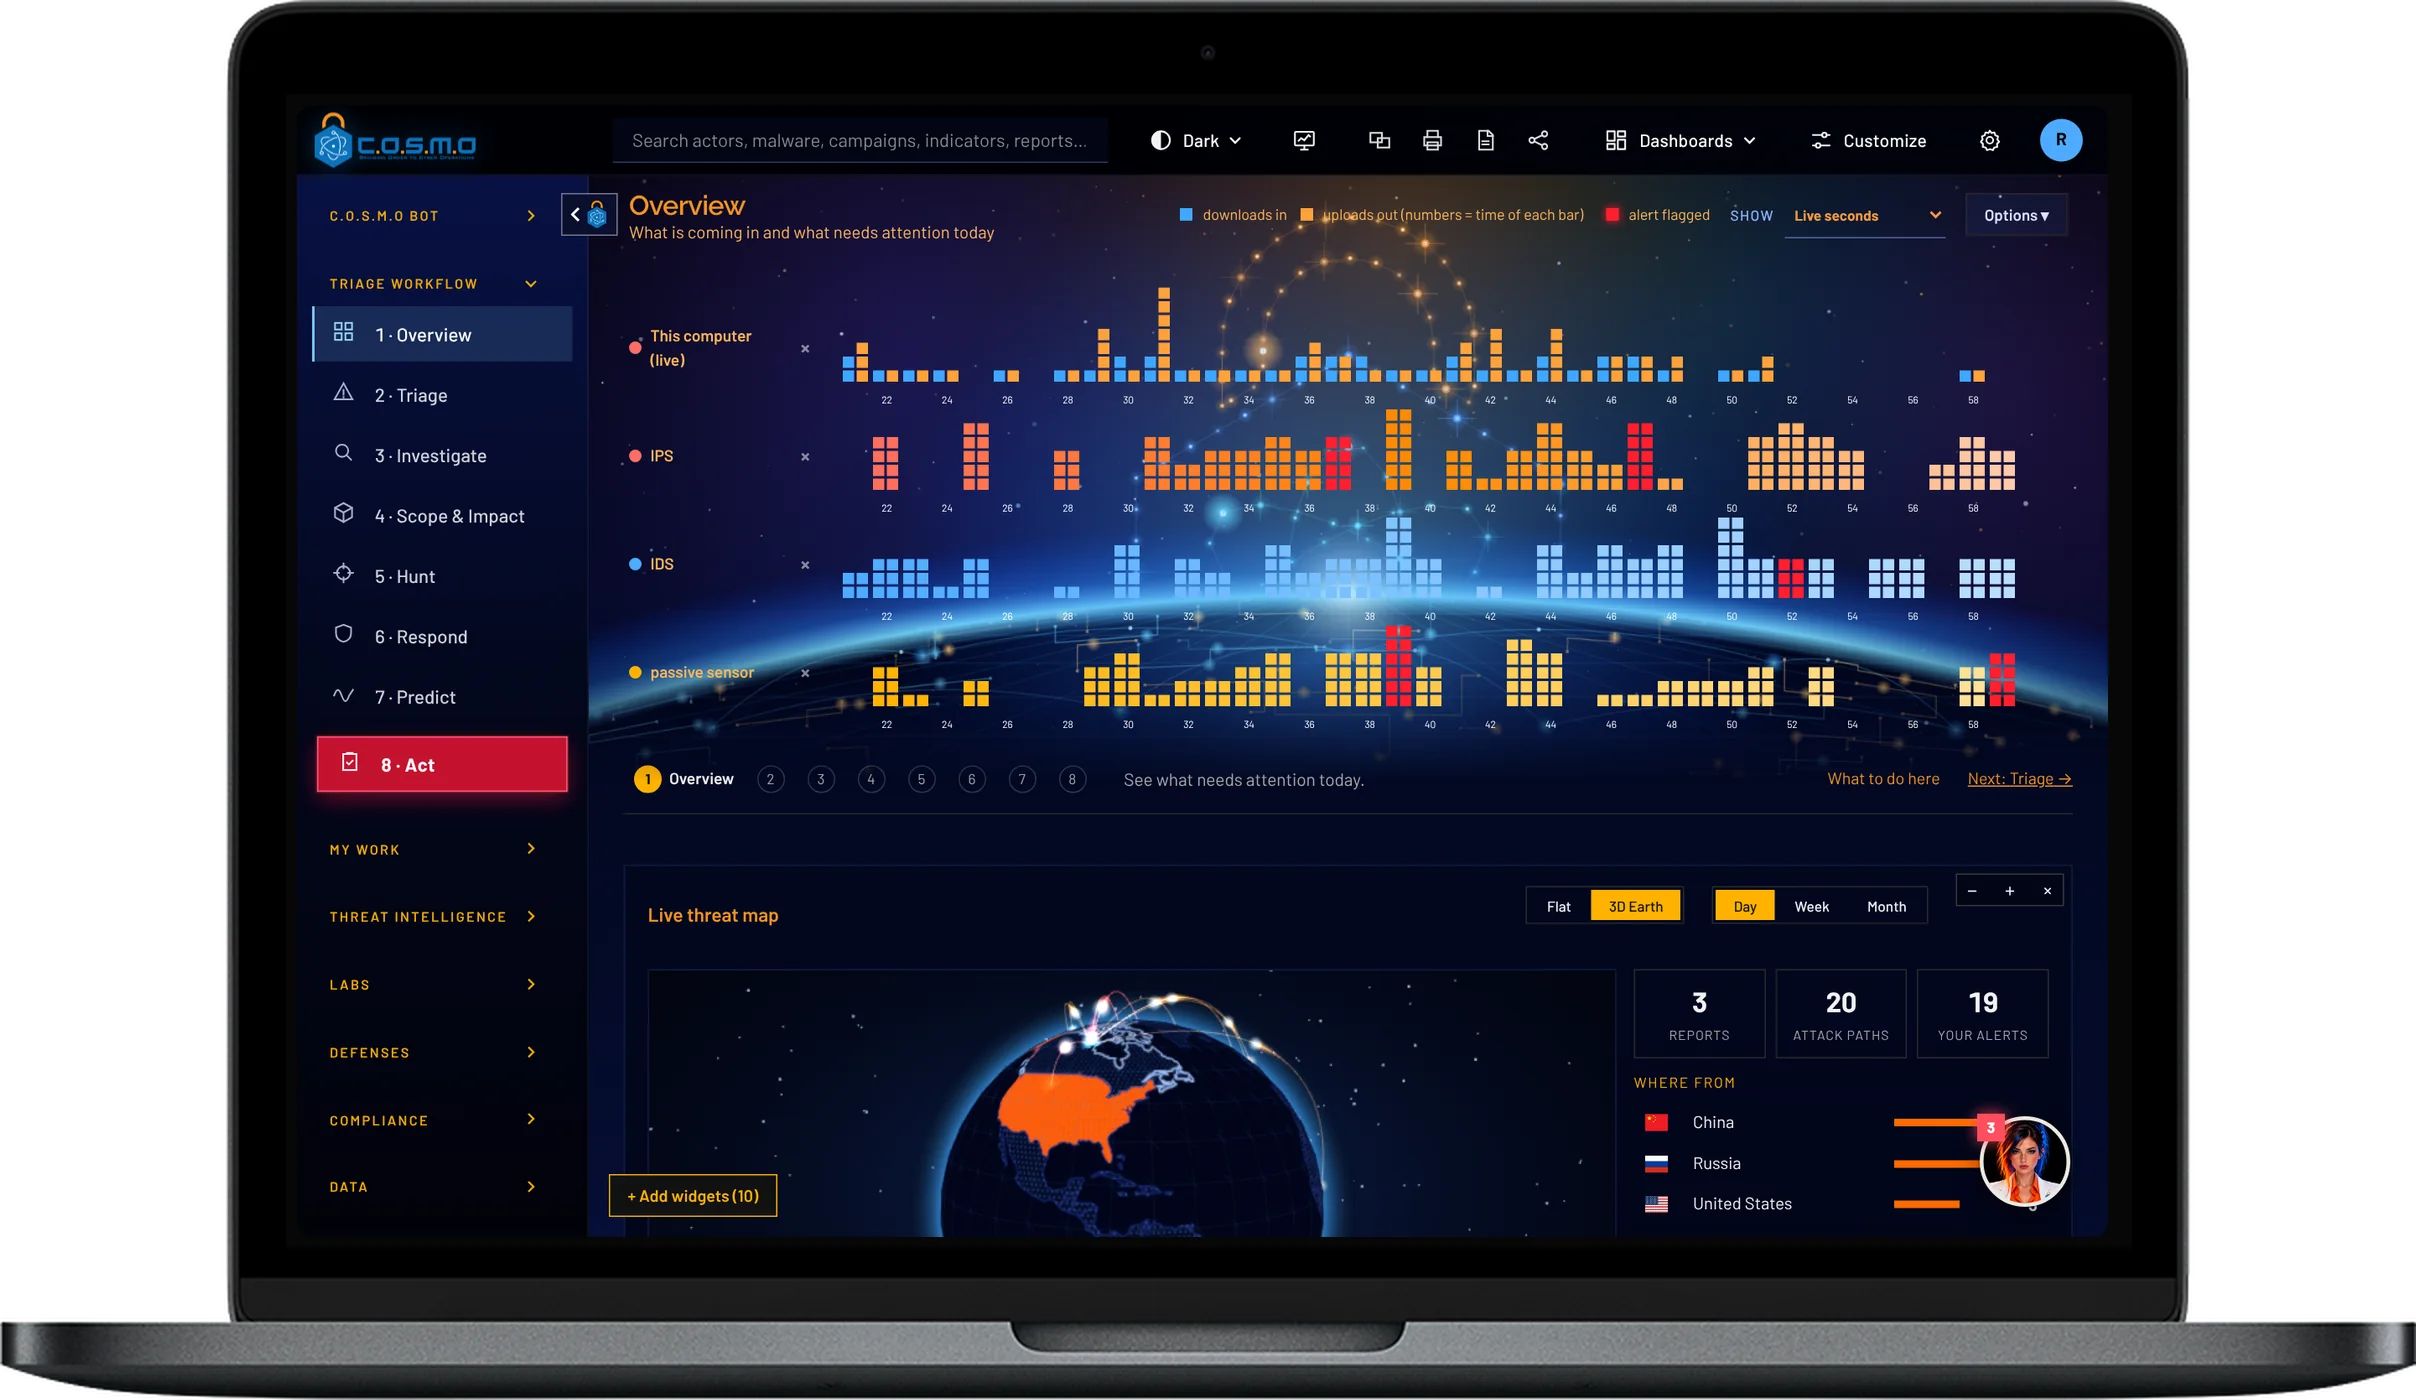
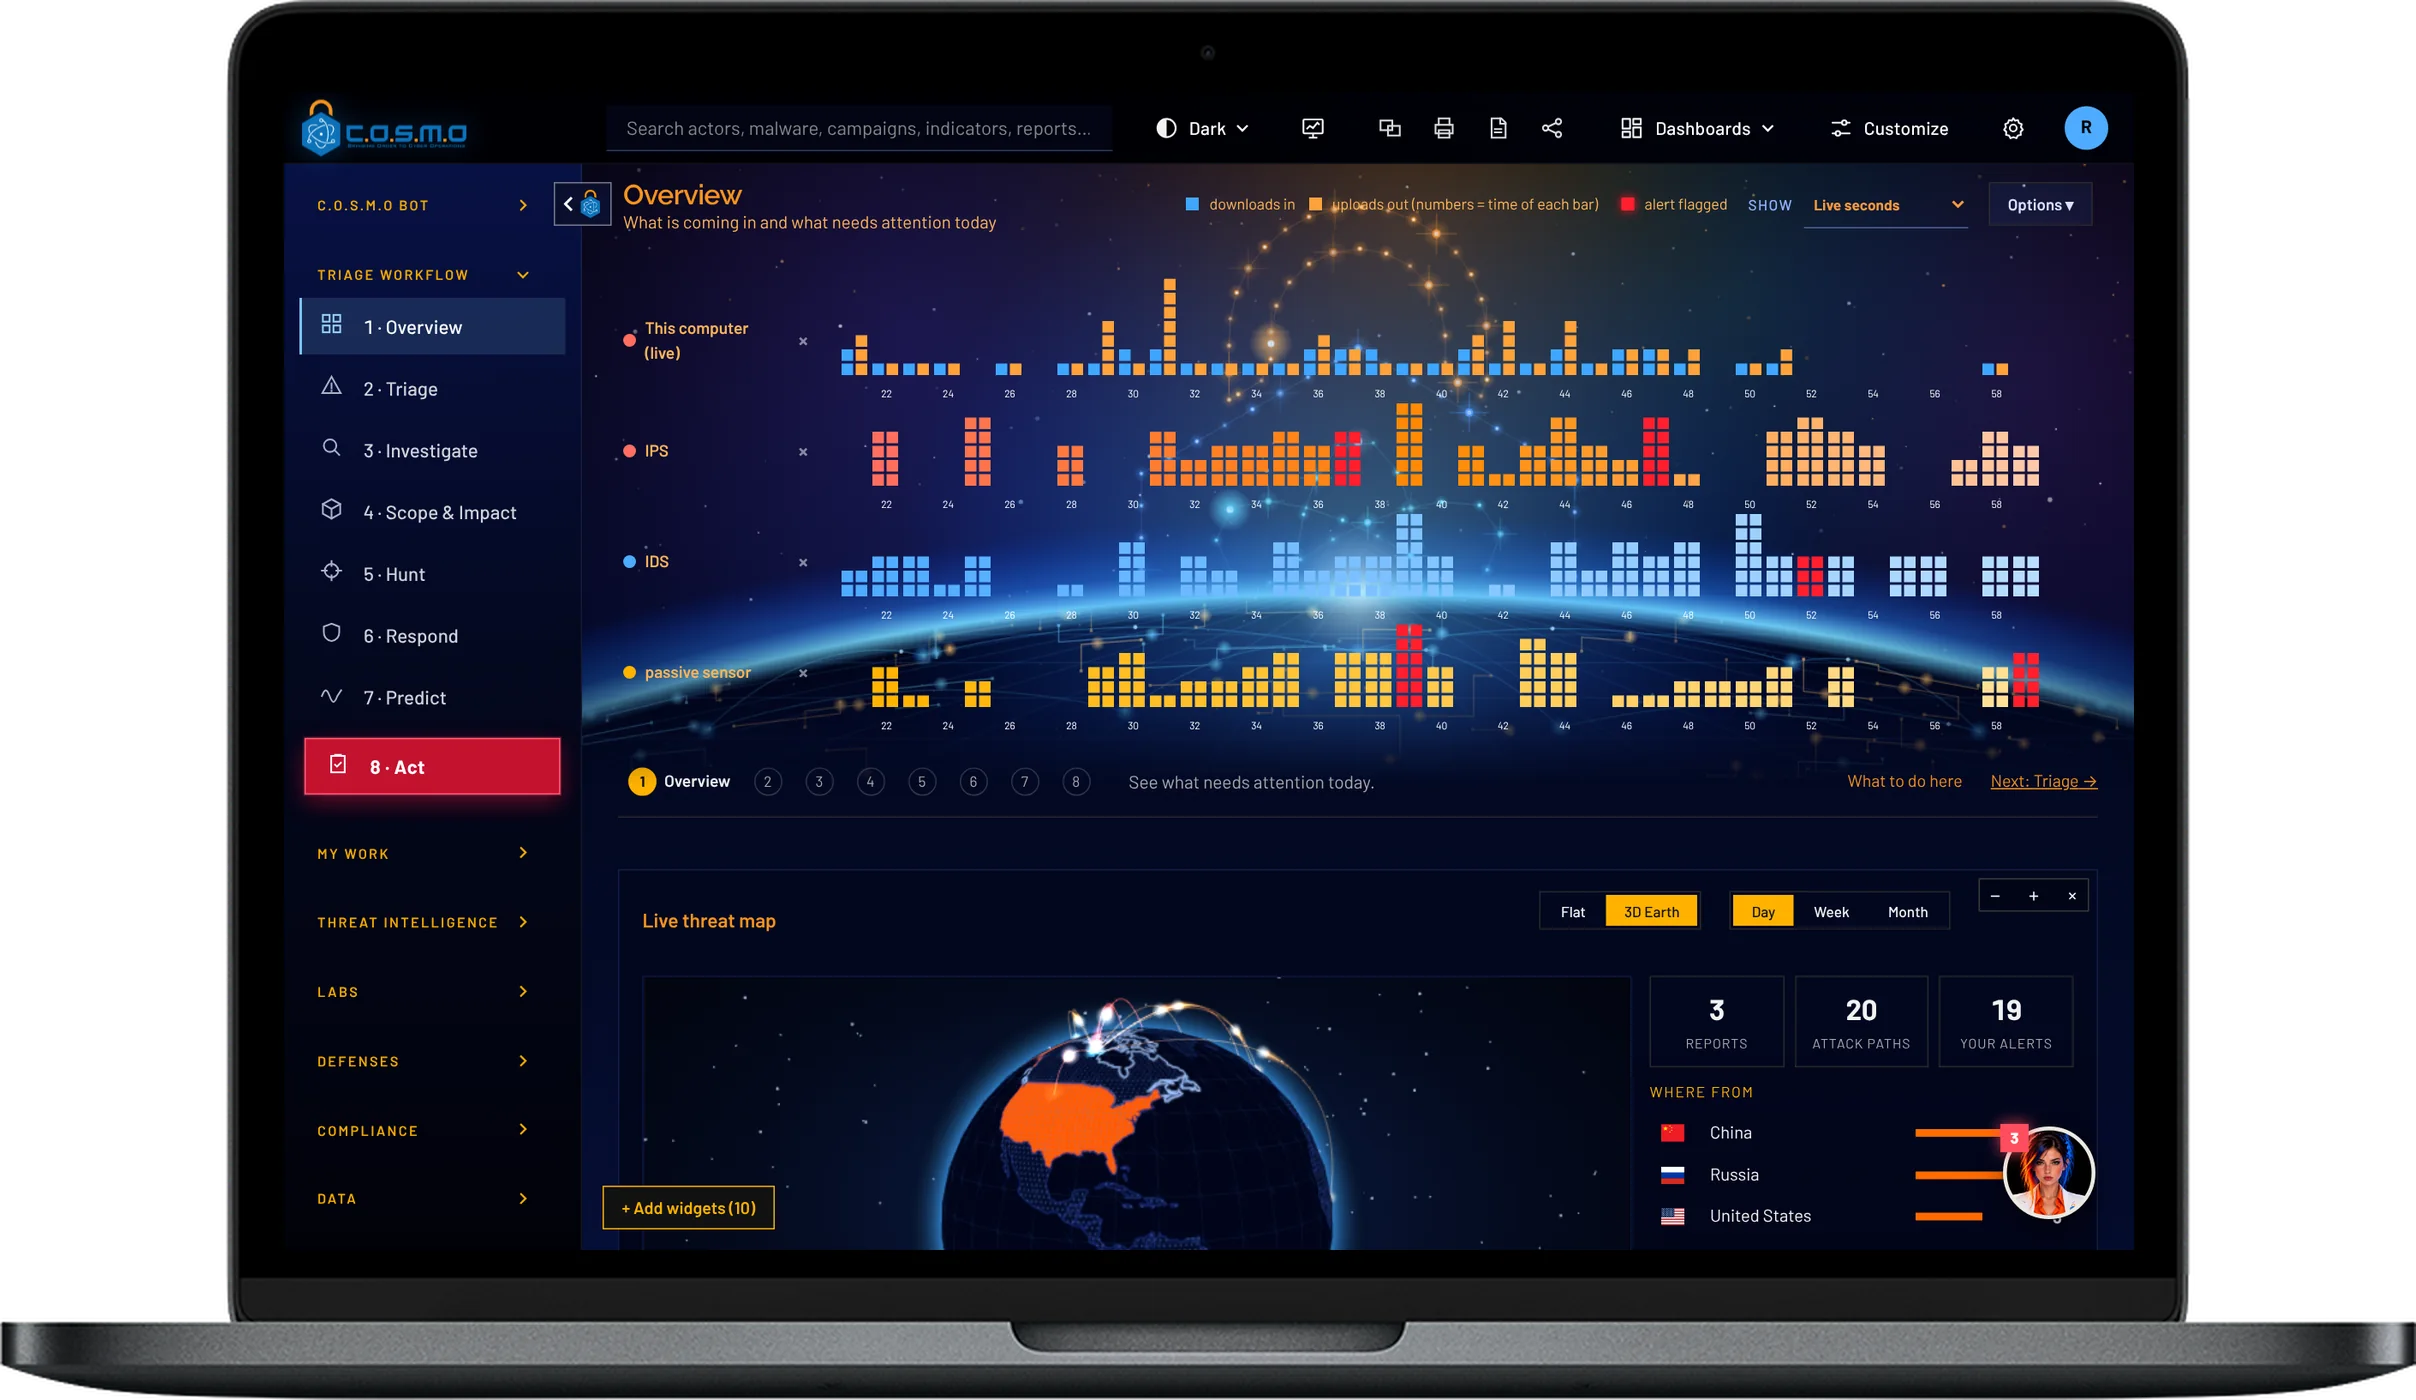
Screens fill the device glass edge to edge; laptop-in-front-of-desktop layout restored
Claude-Session: https://claude.ai/code/session_01GLVpPPueM5nULQxFuFvkgY

diff --git a/css/site.css b/css/site.css
@@ -779,7 +779,3 @@ figure { margin: 0; }
 /* eyebrow marker: three whole dots (the repeating pattern cut the last one off) */
 .eyebrow { min-height: 22px; }
 .eyebrow::before { width: 5px; height: 5px; border-radius: 50%; background: currentColor; box-shadow: 0 -7px 0 currentColor, 0 7px 0 currentColor; margin: 0 4px 0 1px; }
-/* the laptop rests in front of the desktop's chin, so the desktop's whole screen (menu, logo, bot head) stays visible */
-.duo { padding-bottom: 0; }
-.duo .monitor { width: 100%; margin: 0; }
-.duo .laptop { left: 1%; bottom: 3%; width: 34%; }
